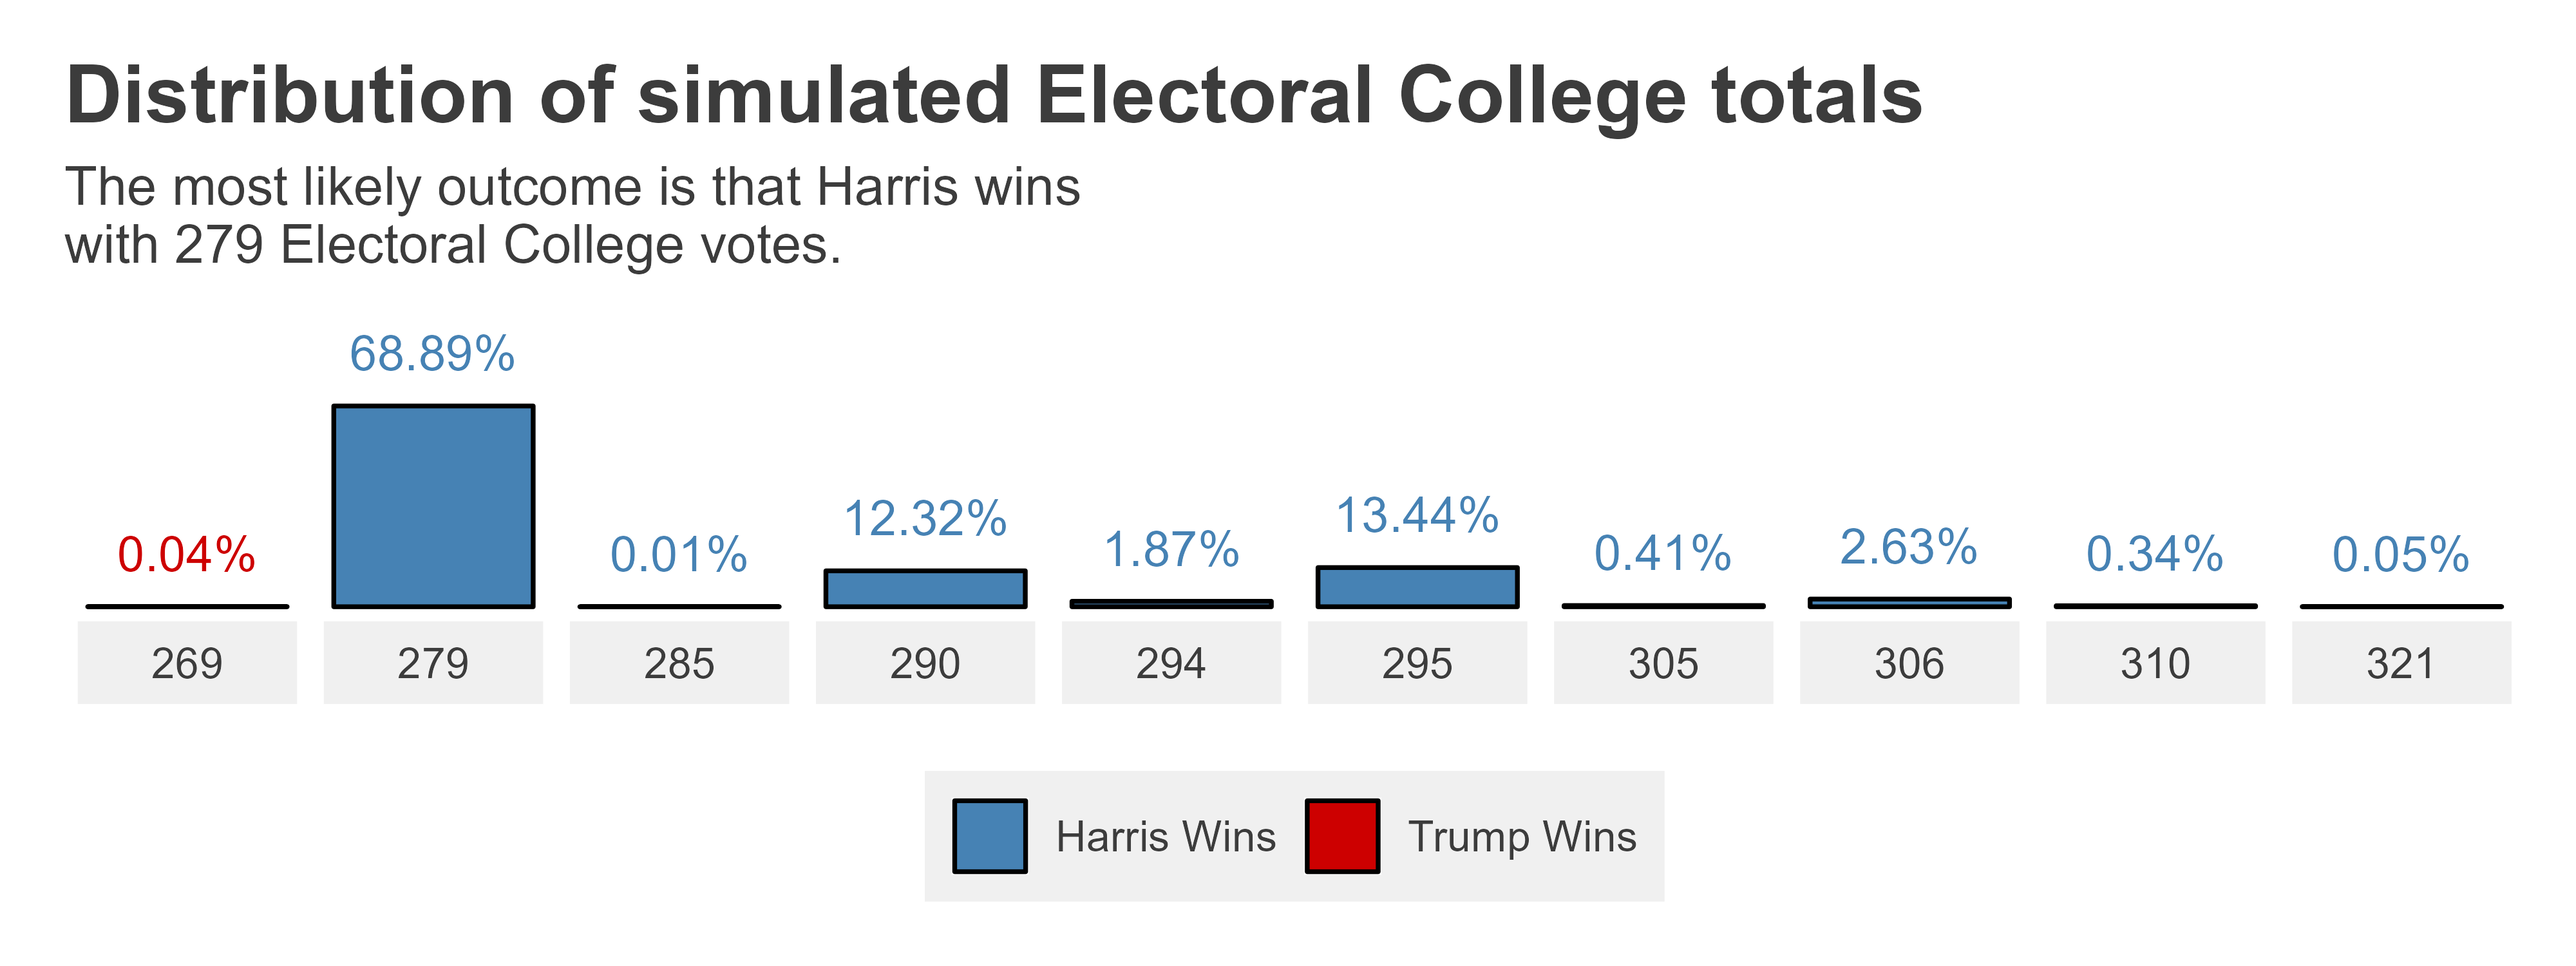
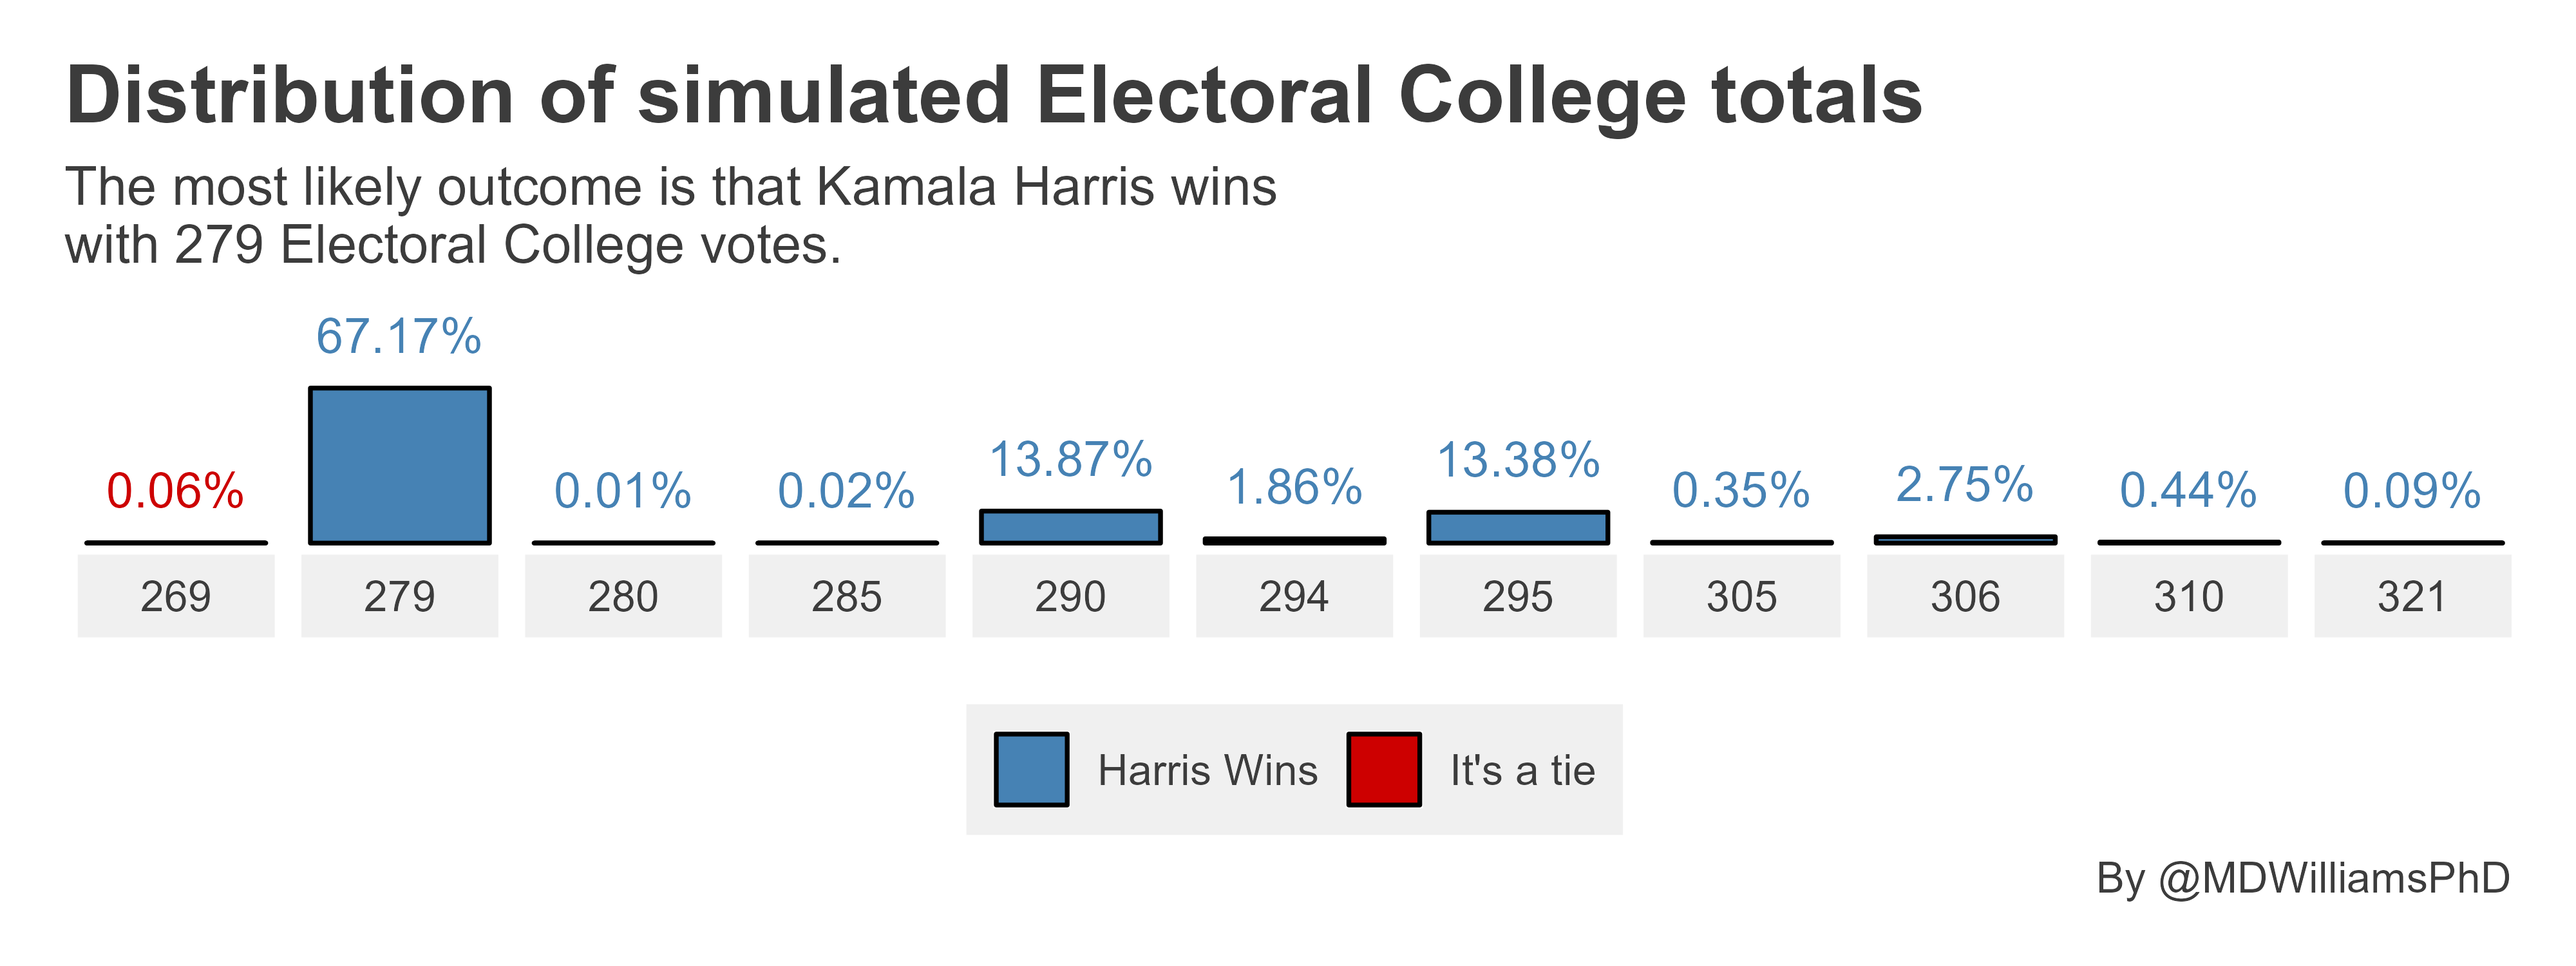
some quick fixes.

diff --git a/README.md b/README.md
@@ -1,16 +1,18 @@
 # 2024 Presidential Election Forecast
 
-For fun, I wanted to try my hand at a 2024 US Presidential election forecast. Here's the current predictions as of 9-28-2024.
+For fun, I wanted to try my hand at a 2024 US Presidential election forecast. Here's the current predictions as of 9-29-2024.
 
-First up are state-level predictions for Harris' popular vote margin relative to Trump's. These predictions are based on a hierarchical linear model fit using previous election state-level margins for the Democratic Party with random intercepts and slopes by state. The results show that Harris is predicted to win nearly all the swing states, but by very small margins.
+[**Note**: *The forecast doesn't currently factor in the separate electoral districts in Maine and Nebraska. In future versions of this, I plan to fix this as it may tilt the range of possible election outcomes more in favor of Donald Trump.*]
+
+First up are state-level predictions for Kamala Harris' popular vote margin relative to Donald Trump's. These predictions are based on a mixed-effects linear model fit using previous election state-level margins for the Democratic Party (going back to 2000) with random intercepts and slopes by state. The results show that Harris is predicted to win nearly all swing states, but by very narrow margins.
 
 ![](_figs/predicted_margin_by_st.png)
 
-Second up are state-level likelihoods that Harris will win the popular vote instead of Trump. These likelihoods are based on bootstrapped predictions from the previous model. The results show that Harris is likely to win 4 out of 7 swing states. While the model seems certain that she'll win Wisconsin, Michigan, Pennsylvania, and Nevada, the model indicates she'll more than likely lose Arizona, Georgia, and North Carolina.
+Second up are state-level likelihoods that Harris will win the popular vote instead of Trump. These likelihoods are based on bootstrapped predictions from the previous model. The results show that Harris is likely to win 4 out of 7 swing states. The model seems certain that she'll win Wisconsin, Michigan, Pennsylvania, and Nevada, but it indicates she'll more than likely lose Arizona, Georgia, and North Carolina.
 
 ![](_figs/predicted_win_by_st.png)
 
-Finally, the below figure simulates (based on the previously shown likelihoods) the range of possible Electoral College outcomes possible. The distribution is produced via 10,000 simulations of state-level wins and losses based on predicted probabilities of victory, with Harris' Electoral College total based on the sum of Electoral College votes she'd get if she won the relevant set of states. Harris is predicted to win the 2024 election with a very narrow margin of victory with 279 Electoral College votes—just 9 more than the 270 she needs to secure the presidency. There is a lot of uncertainty about this result; however, the range of empirically supported alternatives skews toward a Harris win with only a fraction of a percentage of scenarios where Trump wins by a narrow margin of 1 Electoral College vote.
+Finally, the below figure simulates (based on the previously shown likelihoods) the range of possible Electoral College vote totals Harris is likely to win. The distribution is produced via 10,000 simulations of state-level wins and losses based on predicted probabilities of victory. Harris is predicted to win the 2024 election with a very narrow margin of victory---279 Electoral College votes. This is only 9 more than the 270 she would need to secure the presidency. While there is a lot of uncertainty about this result, the range of empirically supported alternatives is heavily skewed toward a Harris win. Less than a percentage of the simulations are consistent with a tie in the Electoral College, and in no scenario does Trump secure the presidency.
 
 ![](_figs/hist_of_wins.png)
 
